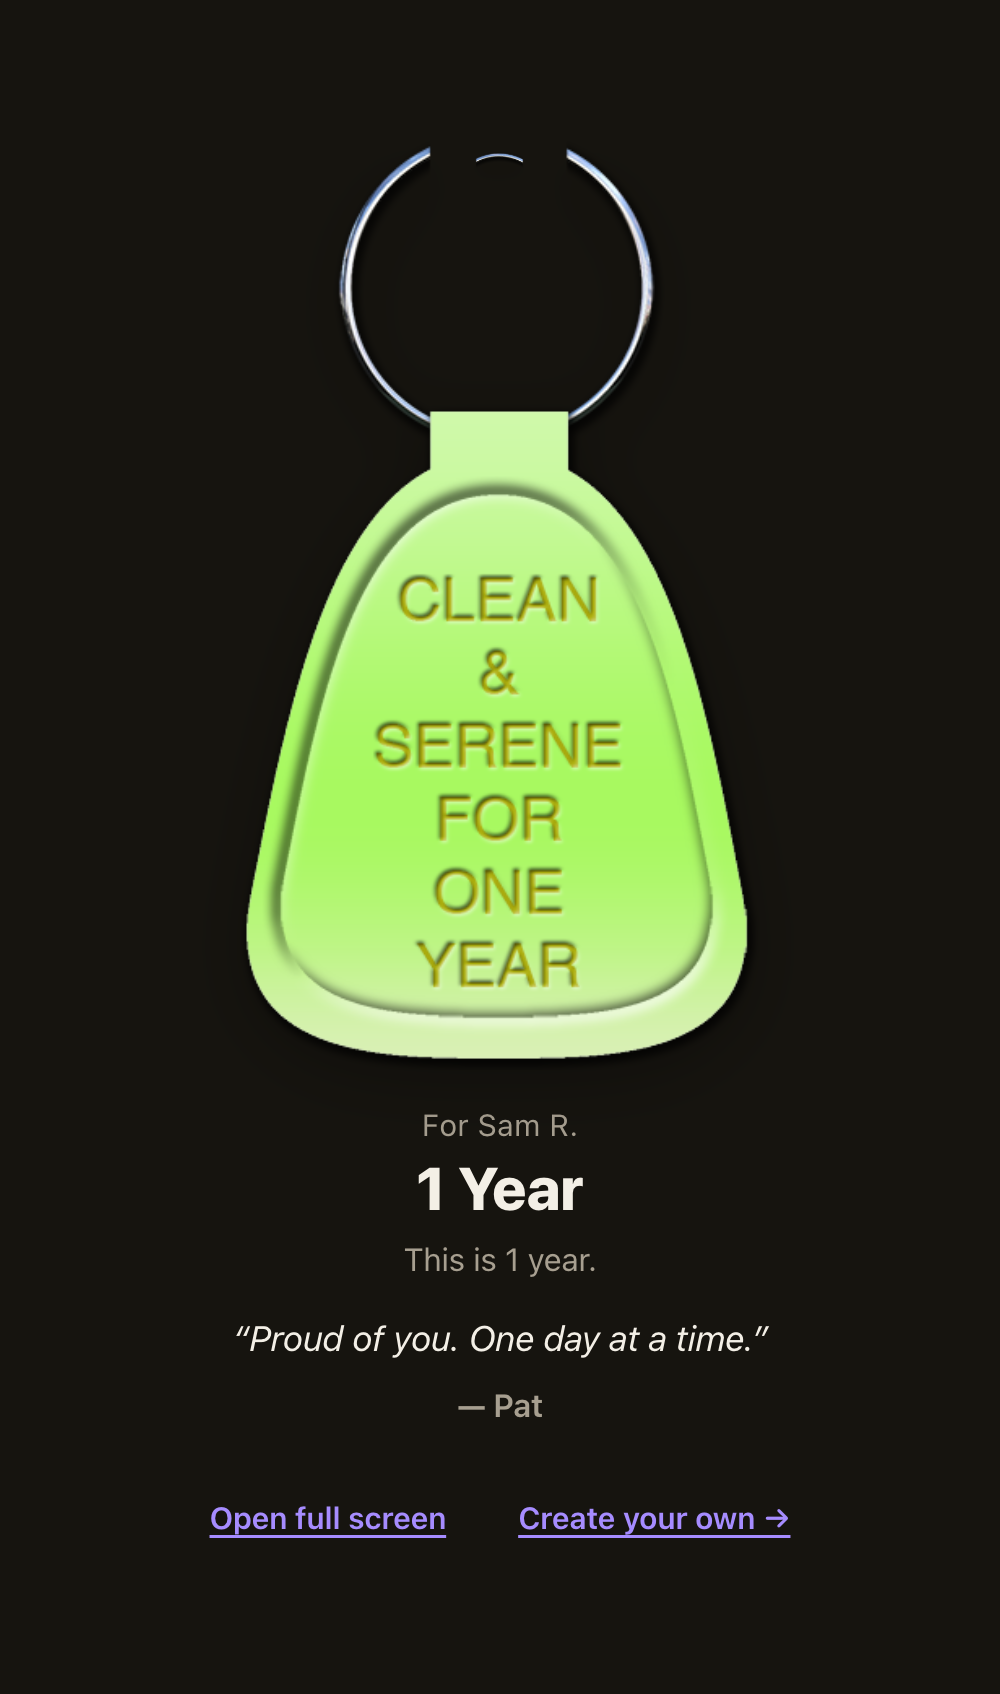
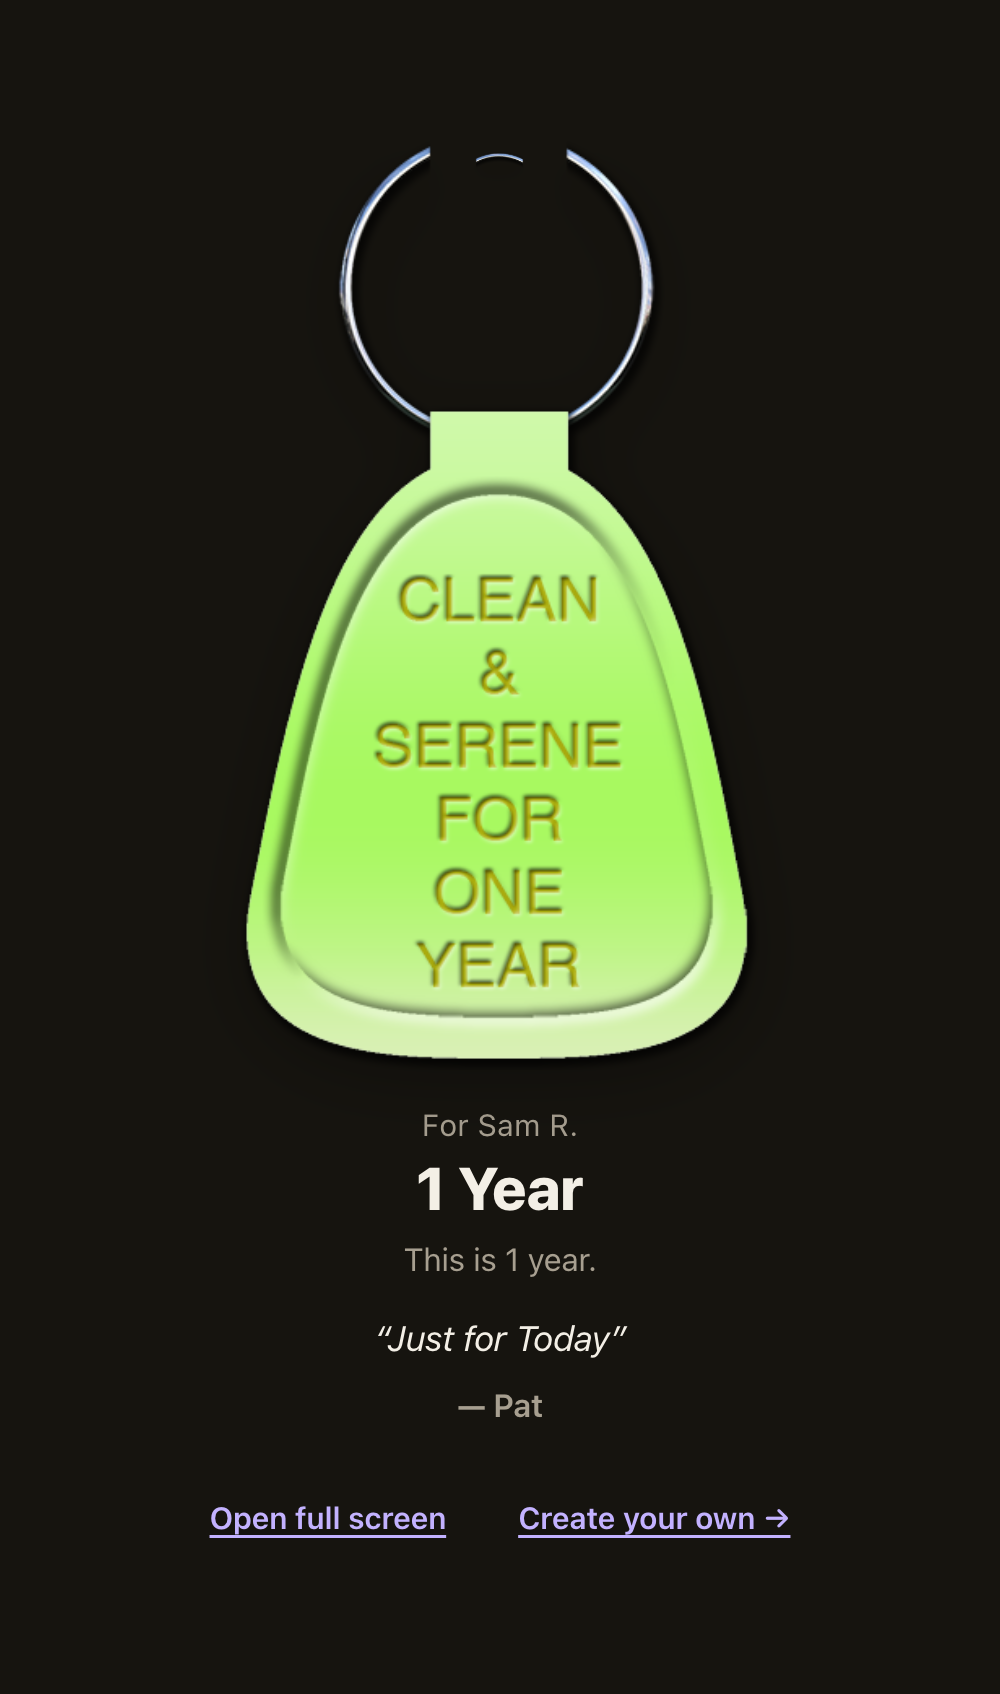
doc change (#2)

Changed region(s): [[0.248, 0.7674, 0.744, 0.7981], [0.527, 0.8902, 0.775, 0.9209], [0.217, 0.8902, 0.434, 0.9209]]

diff --git a/src/tests/unit/encode.test.js b/src/tests/unit/encode.test.js
@@ -8,7 +8,7 @@ describe('encode / decode round-trip', () => {
             y: 2,
             to: 'Sam R.',
             fr: 'Pat',
-            msg: 'One day at a time 🎉 — ¡felicidades!',
+            msg: 'Just for Today 🎉 — ¡felicidades!',
             l: 'es',
             o: 1,
         };
